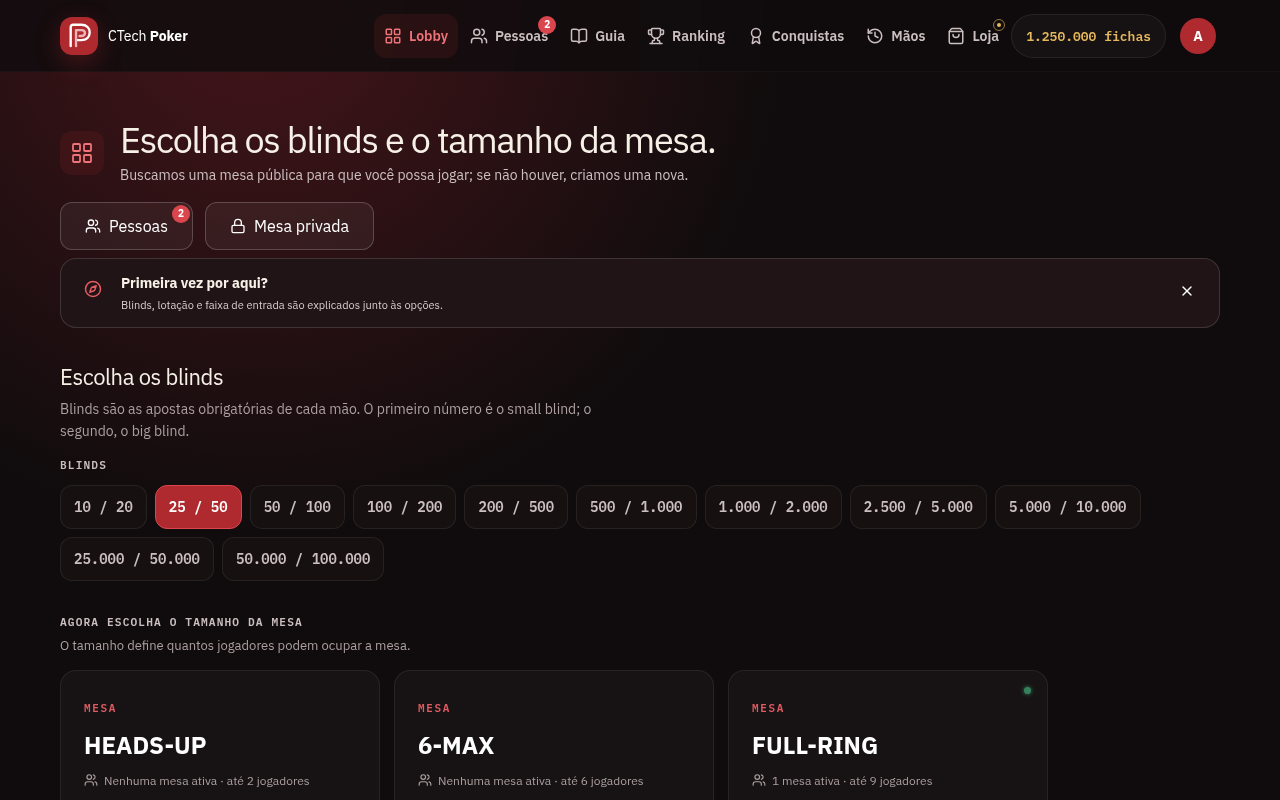
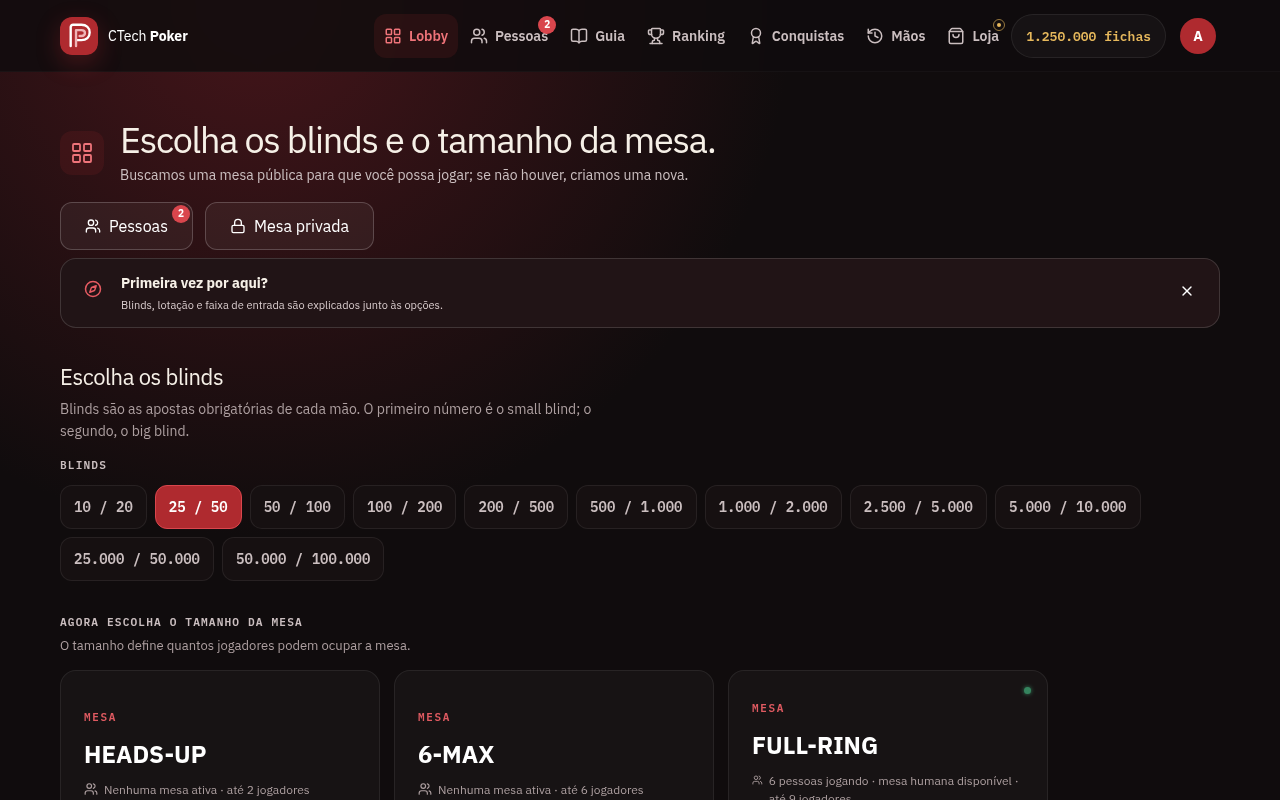
feat: distinguish human and bot occupancy in lobby

Changed region(s): [[0.3125, 0.875, 0.5, 1.0], [0.0625, 0.875, 0.25, 1.0], [0.5938, 0.9688, 0.7812, 1.0]]

diff --git a/ui/src/components/lobby/StakesGrid.tsx b/ui/src/components/lobby/StakesGrid.tsx
@@ -17,9 +17,9 @@ function bucketKey(smallBlind: number, bigBlind: number, maxSeats: number) {
 
 // Availability comes from the server's own aggregate over the whole public
 // directory — the lobby never paginates the room list to count it (#205).
-function openRooms(buckets: RoomBucket[], smallBlind: number, bigBlind: number, maxSeats: number) {
+function bucketFor(buckets: RoomBucket[], smallBlind: number, bigBlind: number, maxSeats: number) {
   return buckets.find(bucket => bucket.small_blind === smallBlind && bucket.big_blind === bigBlind
-    && bucket.max_seats === maxSeats)?.open_rooms ?? 0;
+    && bucket.max_seats === maxSeats);
 }
 
 export function StakesGrid() {
@@ -100,9 +100,20 @@ export function StakesGrid() {
           const maxSeats = opt[0];
           const displayName = opt[1];
           const key = bucketKey(selectedStake.small_blind, selectedStake.big_blind, maxSeats);
-          const active = openRooms(buckets, selectedStake.small_blind, selectedStake.big_blind, maxSeats);
+          const bucket = bucketFor(buckets, selectedStake.small_blind, selectedStake.big_blind, maxSeats);
+          const active = bucket?.open_rooms ?? 0;
+          const humanSeats = bucket?.human_seats ?? bucket?.seats_taken ?? 0;
+          const replaceable = bucket?.replaceable_bot_tables ?? 0;
+          const humanOpen = bucket?.human_open_tables ?? 0;
           const isJoining = joiningKey === key;
-          const actionLabel = active > 0 ? 'Entrar agora' : 'Criar mesa';
+          const actionLabel = humanOpen > 0 ? 'Entrar agora' :
+            replaceable > 0 ? 'Escolher entrada' : active > 0 ? 'Entrar agora' : 'Criar mesa';
+          const availability = humanOpen > 0
+            ? `${humanSeats} pessoa${humanSeats === 1 ? '' : 's'} jogando · mesa humana disponível`
+            : replaceable > 0
+              ? `${humanSeats} pessoa${humanSeats === 1 ? '' : 's'} jogando · vaga após a mão`
+              : humanSeats > 0 ? `${humanSeats} pessoa${humanSeats === 1 ? '' : 's'} jogando`
+              : active > 0 ? 'Mesa disponível · aguardando pessoas' : 'Nenhuma mesa ativa';
           const {min: buyInMin, max: buyInMax} = buyInRange(selectedStake.big_blind);
           // A join in flight blocks the other two options, but with
           // `aria-disabled` rather than `disabled`: the card stays focusable and
@@ -116,13 +127,13 @@ export function StakesGrid() {
                              : waiting ? 'aguarde, outra mesa está sendo aberta' : actionLabel}`}
                          style={{'--delay': `${i * 60}ms`} as React.CSSProperties}
                          onClick={() => pickBucket(selectedStake.small_blind, selectedStake.big_blind, maxSeats)}>
-            {active > 0 && <span className="status-dot"/>}
+            {humanSeats > 0 && <span className="status-dot"/>}
             <div>
               <small>MESA</small>
               <b className="room-card-name">{displayName}</b>
               <span>
                 <Users/>
-                {active > 0 ? `${active} mesa${active > 1 ? 's' : ''} ativa${active > 1 ? 's' : ''}` : 'Nenhuma mesa ativa'} · até {maxSeats} jogadores
+                {availability} · até {maxSeats} jogadores
               </span>
               <span className="room-card-buy-in">
                 Entrada: {buyInMin.toLocaleString('pt-BR')} a {buyInMax.toLocaleString('pt-BR')} fichas ({BUY_IN_MIN_BB}-{BUY_IN_MAX_BB} BB)

diff --git a/ui/src/components/lobby/StakesGrid.test.tsx b/ui/src/components/lobby/StakesGrid.test.tsx
@@ -92,17 +92,40 @@ describe('lobby stakes integration', () => {
     expect(screen.queryByRole('button', {name: /HEADS-UP/})).not.toBeInTheDocument();
   });
 
-  test('shows the aggregate open-room count per format', () => {
+  test('does not present empty or bot seats as people', () => {
     stakesQuery = {data: [{small_blind: 25, big_blind: 50}], isLoading: false};
     // Counts the server reports across the whole directory, not a page of it.
     bucketsQuery = {data: [bucket(6, 3), bucket(9, 1)], isLoading: false};
     render(<StakesGrid/>);
 
-    expect(screen.getByText('3 mesas ativas · até 6 jogadores')).toBeInTheDocument();
-    expect(screen.getByText('1 mesa ativa · até 9 jogadores')).toBeInTheDocument();
+    expect(screen.getByText('Mesa disponível · aguardando pessoas · até 6 jogadores')).toBeInTheDocument();
+    expect(screen.getByText('Mesa disponível · aguardando pessoas · até 9 jogadores')).toBeInTheDocument();
     expect(screen.getByText('Nenhuma mesa ativa · até 2 jogadores')).toBeInTheDocument();
     expect(screen.getAllByText('Entrar agora')).toHaveLength(2);
     expect(screen.getAllByText('Criar mesa')).toHaveLength(1);
+  });
+
+  test('identifies a replaceable bot table without calling it full', () => {
+    stakesQuery = {data: [{small_blind: 25, big_blind: 50}], isLoading: false};
+    bucketsQuery = {data: [{
+      ...bucket(2, 1), seats_taken: 1, human_seats: 1,
+      human_open_tables: 0, replaceable_bot_tables: 1,
+    }], isLoading: false};
+    render(<StakesGrid/>);
+    expect(screen.getByText('1 pessoa jogando · vaga após a mão · até 2 jogadores')).toBeInTheDocument();
+    expect(screen.getByRole('button', {name: /HEADS-UP.*Escolher entrada/})).toBeInTheDocument();
+    expect(screen.queryByText(/mesa cheia/i)).not.toBeInTheDocument();
+  });
+
+  test('keeps human availability primary when both human and bot tables exist', () => {
+    stakesQuery = {data: [{small_blind: 25, big_blind: 50}], isLoading: false};
+    bucketsQuery = {data: [{
+      ...bucket(6, 2), seats_taken: 3, human_seats: 3,
+      human_open_tables: 1, replaceable_bot_tables: 1,
+    }], isLoading: false};
+    render(<StakesGrid/>);
+    expect(screen.getByText('3 pessoas jogando · mesa humana disponível · até 6 jogadores')).toBeInTheDocument();
+    expect(screen.getByRole('button', {name: /6-MAX.*Entrar agora/})).toBeInTheDocument();
   });
 
   // The click is navigation only: nothing is read or mutated in the lobby,

diff --git a/ui/src/app/(marketing)/guide/basics/page.tsx b/ui/src/app/(marketing)/guide/basics/page.tsx
@@ -18,9 +18,10 @@ export default function BasicsGuide() {
       {
         id: 'lobby', title: 'O lobby em duas escolhas', summary: 'Primeiro os blinds, depois o tamanho da mesa.',
         image: {src: '/guide/lobby.webp', alt: 'Lobby com a lista de blinds e os três formatos de mesa'},
-        body: <><p>Escolha um par de blinds e em seguida o formato: <b>Heads-up</b> (2), <b>6-max</b> (6) ou <b>Full-ring</b> (9). Cada cartão mostra quantas mesas daquele formato têm vaga agora e a faixa de entrada correspondente.</p>
+        body: <><p>Escolha um par de blinds e em seguida o formato: <b>Heads-up</b> (2), <b>6-max</b> (6) ou <b>Full-ring</b> (9). Cada cartão mostra pessoas jogando e a faixa de entrada correspondente. Bots não são contados como pessoas.</p>
           <GuideTerms><GuideTerm term="Blinds">Apostas obrigatórias que abrem cada mão. O primeiro número é o small blind; o segundo, o big blind.</GuideTerm>
             <GuideTerm term="Entrar agora">Existe mesa pública com vaga naquele formato e você senta nela.</GuideTerm>
+            <GuideTerm term="Escolher entrada">Há uma pessoa jogando com bots. Você pode reservar a vaga de um bot para a próxima mão; o buy-in só é debitado quando seu assento for confirmado.</GuideTerm>
             <GuideTerm term="Criar mesa">Não há vaga; uma nova mesa pública é aberta com a sua escolha.</GuideTerm></GuideTerms>
           <p>Se você já está sentado em algum lugar, <b>Sua mesa continua aberta</b> aparece no topo com a entrada usada e leva de volta ao mesmo assento, nunca cria um segundo. Um ponto dourado na Loja significa que a recompensa diária já pode ser resgatada.</p>
           <p>Se a última vaga for ocupada no momento em que você entra, você volta ao lobby com um aviso e tentamos de novo nos mesmos blinds e formato. Suas fichas nunca ficam presas.</p></>

diff --git a/ui/src/dev/mockRuntime.ts b/ui/src/dev/mockRuntime.ts
@@ -1033,11 +1033,15 @@ export async function mockAdapter(config: InternalAxiosRequestConfig): Promise<A
       const bucket = buckets.get(key) ?? {
         small_blind: room.small_blind, big_blind: room.big_blind, max_seats: room.max_seats,
         currency_mode: mode, rooms: 0, open_rooms: 0, seats_taken: 0, seats_available: 0,
+        human_seats: 0, human_open_tables: 0, replaceable_bot_tables: 0,
       };
       bucket.rooms = (bucket.rooms as number) + 1;
       bucket.open_rooms = (bucket.open_rooms as number) + (free > 0 ? 1 : 0);
       bucket.seats_taken = (bucket.seats_taken as number) + room.seats_taken;
+      bucket.human_seats = (bucket.human_seats as number) + room.seats_taken;
       bucket.seats_available = (bucket.seats_available as number) + free;
+      bucket.human_open_tables = (bucket.human_open_tables as number) +
+        (free > 0 && room.seats_taken > 0 ? 1 : 0);
       buckets.set(key, bucket);
     }
     return ok({data: [...buckets.values()]}, config);

diff --git a/ui/src/lib/api/rooms.ts b/ui/src/lib/api/rooms.ts
@@ -59,6 +59,9 @@ export interface RoomBucket {
   open_rooms: number;
   seats_taken: number;
   seats_available: number;
+  human_seats?: number;
+  human_open_tables?: number;
+  replaceable_bot_tables?: number;
 }
 
 export async function listRoomBuckets(currencyMode: 'sandbox' | 'real' = 'sandbox') {

diff --git a/api/internal/roomstore/room.go b/api/internal/roomstore/room.go
@@ -35,12 +35,12 @@ type Room struct {
 	// room's stake pair belongs to, recorded at creation so buyin's
 	// entitlement rebind never has to re-derive it from blinds. Empty for
 	// sandbox rooms (no entitlement).
-	Tier                 string           `dynamodbav:"tier,omitempty" json:"tier,omitempty"`
+	Tier string `dynamodbav:"tier,omitempty" json:"tier,omitempty"`
 	// Variant is the table rule set (#296): "" (VariantStandard, default) or
 	// "short_deck" (VariantShortDeck). Sandbox-only — createRoom rejects a
 	// non-empty Variant on any real-money room outright, never just hides
 	// the picker client-side. Immutable after creation, same as CurrencyMode.
-	Variant string `dynamodbav:"variant,omitempty" json:"variant,omitempty"`
+	Variant              string           `dynamodbav:"variant,omitempty" json:"variant,omitempty"`
 	ShareCode            string           `dynamodbav:"share_code,omitempty" json:"share_code,omitempty"`                     // private rooms only
 	BlindEscalation      *BlindEscalation `dynamodbav:"blind_escalation,omitempty" json:"blind_escalation,omitempty"`         // private rooms only
 	TurnTimeoutSeconds   int              `dynamodbav:"turn_timeout_seconds,omitempty" json:"turn_timeout_seconds,omitempty"` // private rooms only, 0 = default
@@ -49,9 +49,11 @@ type Room struct {
 	Status               string           `dynamodbav:"status" json:"status"` // "waiting" | "active"
 	// SeatsTaken mirrors the table actor's live occupied-seat count, written
 	// through on every join/leave commit (table.Actor's onSeatsChanged hook via
-	// tablemanager). Never computed live from tablemanager at read time — the
-	// lobby list must work fleet-wide without touching in-memory actor state.
+	// tablemanager). Counts humans only; bot seats are replaceable. Never
+	// computed live from tablemanager at read time — the lobby list must work
+	// fleet-wide without touching in-memory actor state.
 	SeatsTaken int    `dynamodbav:"seats_taken" json:"seats_taken"`
+	BotSeats   int    `dynamodbav:"bot_seats,omitempty" json:"bot_seats,omitempty"`
 	CreatedBy  string `dynamodbav:"created_by" json:"created_by"`
 	CreatedAt  string `dynamodbav:"created_at" json:"created_at"` // RFC3339Nano, see dynamo.NowStr()
 }

diff --git a/api/internal/tablemanager/manager.go b/api/internal/tablemanager/manager.go
@@ -45,7 +45,7 @@ type Manager struct {
 	broadcast              func(tableID, viewerID string, snap hand.Snapshot)
 	onHandComplete         func(tableID, handID string, outcome hand.HandOutcome, names map[string]string)
 	onHandUpdated          func(tableID, handID string, outcome hand.HandOutcome, names map[string]string)
-	onSeatsChanged         func(tableID string, seatsTaken int)
+	onSeatsChanged         func(tableID string, seatsTaken, botSeats int)
 	onPlayerRemoved        func(tableID, playerID, reason, settlementNonce string, stack int64, holdID string)
 	autoRebuySweep         func(tableID, handID string, outcome hand.HandOutcome)
 	tableStreak            func(tableID, handID string, outcome hand.HandOutcome) map[string]int
@@ -211,9 +211,12 @@ func outcomeContainsBot(outcome hand.HandOutcome) bool {
 }
 
 // SetOnSeatsChanged installs the occupancy write-through hook, invoked with
-// (tableID, seatsTaken) after every table actor's committed join/leave, for
+// (tableID, humanSeats, botSeats) after every table actor's committed seat
+// change, for
 // every actor this manager creates (including ones created before this call).
-func (m *Manager) SetOnSeatsChanged(fn func(tableID string, seatsTaken int)) { m.onSeatsChanged = fn }
+func (m *Manager) SetOnSeatsChanged(fn func(tableID string, seatsTaken, botSeats int)) {
+	m.onSeatsChanged = fn
+}
 
 // SetOnPlayerRemoved installs the system-removal notification hook (AFK
 // sweep / disconnect kick timeout only — never a player-requested leave),
@@ -479,9 +482,9 @@ func (m *Manager) GetOrCreateActor(ctx context.Context, tableID string, seed fun
 			m.onHandUpdated(tableID, handID, outcome, names)
 		}
 	})
-	actor.SetOnSeatsChangedForActor(func(seatsTaken int) {
+	actor.SetOnSeatsChangedForActor(func(seatsTaken, botSeats int) {
 		if m.onSeatsChanged != nil {
-			m.onSeatsChanged(tableID, seatsTaken)
+			m.onSeatsChanged(tableID, seatsTaken, botSeats)
 		}
 	})
 	actor.SetOnPlayerRemovedForActor(func(playerID, reason, settlementNonce string, stack int64, holdID string) {

diff --git a/api/internal/api/v1/roomdto.go b/api/internal/api/v1/roomdto.go
@@ -72,14 +72,17 @@ type BotEligibilityResponse struct {
 // over EVERY page of the public index rather than the first one the client
 // happened to fetch (#76).
 type RoomBucket struct {
-	SmallBlind     int64  `json:"small_blind"`
-	BigBlind       int64  `json:"big_blind"`
-	MaxSeats       int    `json:"max_seats"`
-	CurrencyMode   string `json:"currency_mode"`
-	Rooms          int    `json:"rooms"`           // public rooms in this bucket
-	OpenRooms      int    `json:"open_rooms"`      // those with at least one free seat
-	SeatsTaken     int    `json:"seats_taken"`     // players currently seated across the bucket
-	SeatsAvailable int    `json:"seats_available"` // free seats across the bucket
+	SmallBlind           int64  `json:"small_blind"`
+	BigBlind             int64  `json:"big_blind"`
+	MaxSeats             int    `json:"max_seats"`
+	CurrencyMode         string `json:"currency_mode"`
+	Rooms                int    `json:"rooms"`           // public rooms in this bucket
+	OpenRooms            int    `json:"open_rooms"`      // those with at least one free seat
+	SeatsTaken           int    `json:"seats_taken"`     // humans currently seated across the bucket (legacy field)
+	SeatsAvailable       int    `json:"seats_available"` // free seats across the bucket
+	HumanSeats           int    `json:"human_seats"`
+	HumanOpenTables      int    `json:"human_open_tables"`
+	ReplaceableBotTables int    `json:"replaceable_bot_tables"`
 }
 
 type LeaveRoomRequest struct {

diff --git a/api/internal/table/actor_hooks.go b/api/internal/table/actor_hooks.go
@@ -110,9 +110,9 @@ func (a *Actor) SetOnHandUpdatedForActor(fn func(string, hand.HandOutcome, map[s
 }
 
 // SetOnSeatsChangedForActor installs the post-commit occupancy write-through
-// hook, invoked with the new occupied-seat count after every committed join
-// or leave.
-func (a *Actor) SetOnSeatsChangedForActor(fn func(int)) { a.onSeatsChanged = fn }
+// hook, invoked with the new human and bot seat counts after a committed
+// seating change.
+func (a *Actor) SetOnSeatsChangedForActor(fn func(int, int)) { a.onSeatsChanged = fn }
 
 // SetOnPlayerRemovedForActor installs the system-removal notification hook —
 // see onPlayerRemoved's doc comment.
@@ -144,7 +144,7 @@ func (a *Actor) notifySeatsChanged() {
 		// The lobby's occupancy mirror controls whether a human may attempt to
 		// join. Bots are replaceable capacity and must never make a table look
 		// full to matchmaking, especially at heads-up tables.
-		a.onSeatsChanged(a.cached.HumanSeatCountForActor())
+		a.onSeatsChanged(a.cached.HumanSeatCountForActor(), a.cached.BotSeatCountForActor())
 	}
 }
 

diff --git a/api/internal/table/actor_bots.go b/api/internal/table/actor_bots.go
@@ -45,6 +45,7 @@ func (a *Actor) handleReserveBotSeat(ctx context.Context, c ReserveBotSeatCmd) e
 		}
 	}
 	a.broadcastAll()
+	a.notifySeatsChanged()
 	a.armBotReservationTimer()
 	return nil
 }
@@ -542,16 +543,31 @@ func (a *Actor) maybeReactAfterBotHand(ctx context.Context, handID string, outco
 		return
 	}
 	var botID, humanID string
+	humanPriority := -1
 	botWon := false
 	winners := stringSet(outcome.Winners)
+	participants := stringSet(outcome.Participants)
+	allInPlayers := stringSet(outcome.AllInPlayers)
 	for _, p := range a.cached.PlayersForActor() {
+		if !participants[p.ID] {
+			continue
+		}
 		if p.IsBot {
 			if botID == "" || winners[p.ID] {
 				botID = p.ID
 			}
 			botWon = botWon || winners[p.ID]
-		} else if p.ID == policy.OwnerID {
-			humanID = p.ID
+		} else {
+			priority := 0
+			if allInPlayers[p.ID] {
+				priority = 1
+			}
+			if winners[p.ID] {
+				priority = 2
+			}
+			if priority > humanPriority {
+				humanID, humanPriority = p.ID, priority
+			}
 		}
 	}
 	if botID == "" || humanID == "" {

diff --git a/api/internal/api/v1/roombuckets_test.go b/api/internal/api/v1/roombuckets_test.go
@@ -127,6 +127,23 @@ func TestAggregateBucketsExcludesOtherCurrencyMode(t *testing.T) {
 	}
 }
 
+func TestAggregateBucketsSeparatesHumansFromReplaceableBots(t *testing.T) {
+	botRoom := bucketRoom("bot-room", 1)
+	botRoom.BotSeats = 5
+	sharedBotRoom := bucketRoom("shared-bot-room", 2)
+	sharedBotRoom.BotSeats = 2
+	humanRoom := bucketRoom("human-room", 2)
+	empty := bucketRoom("empty", 0)
+	buckets := aggregateBuckets([]roomstore.Room{botRoom, sharedBotRoom, humanRoom, empty}, "sandbox")
+	if len(buckets) != 1 {
+		t.Fatalf("buckets=%+v", buckets)
+	}
+	got := buckets[0]
+	if got.HumanSeats != 5 || got.HumanOpenTables != 1 || got.ReplaceableBotTables != 2 || got.OpenRooms != 4 {
+		t.Fatalf("bot seats were confused with people or capacity: %+v", got)
+	}
+}
+
 // The buckets aggregate is the only endpoint left that walks the whole public
 // index, so it must not walk it once per request (#213).
 func TestBucketCacheWalksThePublicIndexOncePerTTL(t *testing.T) {

diff --git a/api/internal/roomstore/dynamo.go b/api/internal/roomstore/dynamo.go
@@ -128,11 +128,11 @@ func (s *Store) ListBucket(ctx context.Context, currencyMode string, smallBlind,
 	return decodeRooms(result.Items)
 }
 
-// SetSeatsTaken persists the table actor's live occupied-seat count so the
-// lobby can list "active tables" without querying tablemanager.
-func (s *Store) SetSeatsTaken(ctx context.Context, roomID string, seatsTaken int) error {
+// SetOccupancy persists human and bot counts without querying live actors
+// from the lobby. SeatsTaken remains the replaceable human-capacity mirror.
+func (s *Store) SetOccupancy(ctx context.Context, roomID string, seatsTaken, botSeats int) error {
 	sk := roomSK
-	ok, err := s.base.UpdateItem(ctx, roomID, &sk, map[string]any{"seats_taken": seatsTaken})
+	ok, err := s.base.UpdateItem(ctx, roomID, &sk, map[string]any{"seats_taken": seatsTaken, "bot_seats": botSeats})
 	if err != nil {
 		return fmt.Errorf("roomstore: set seats taken: %w", err)
 	}
